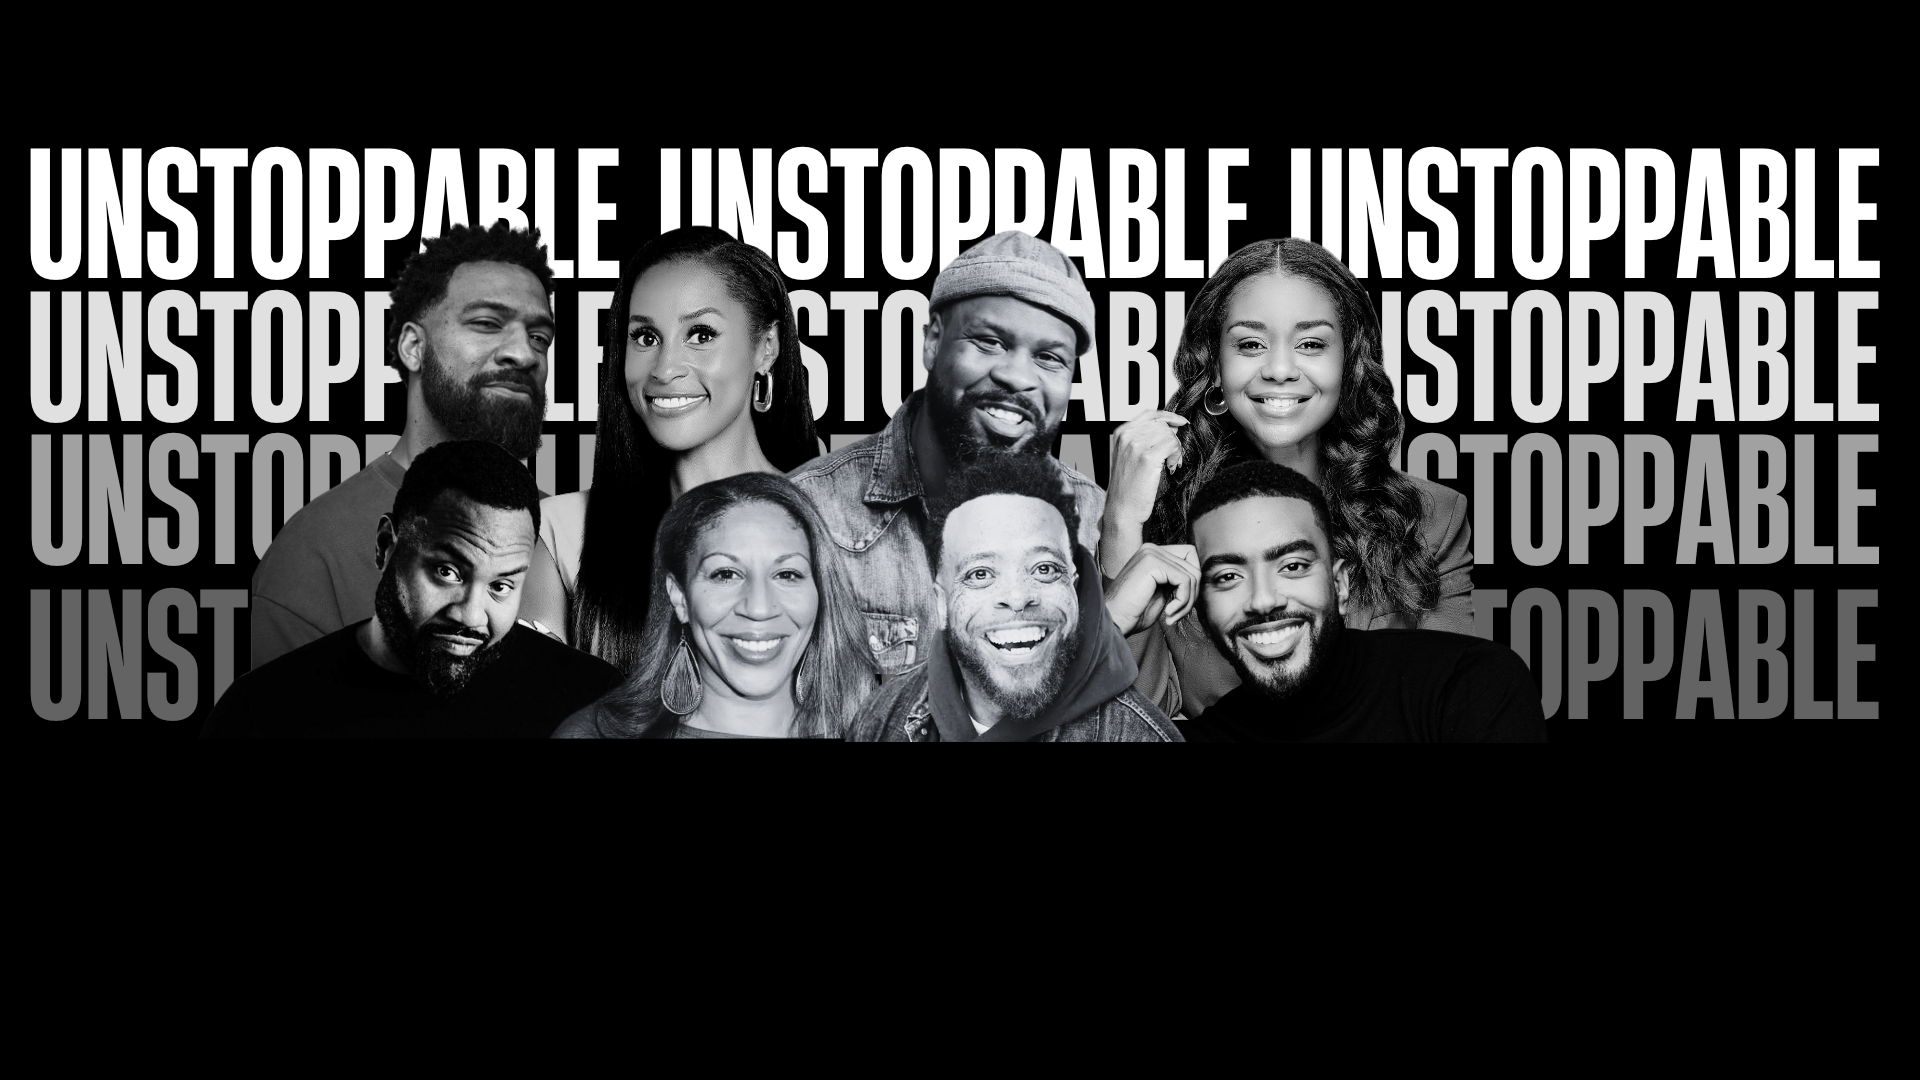
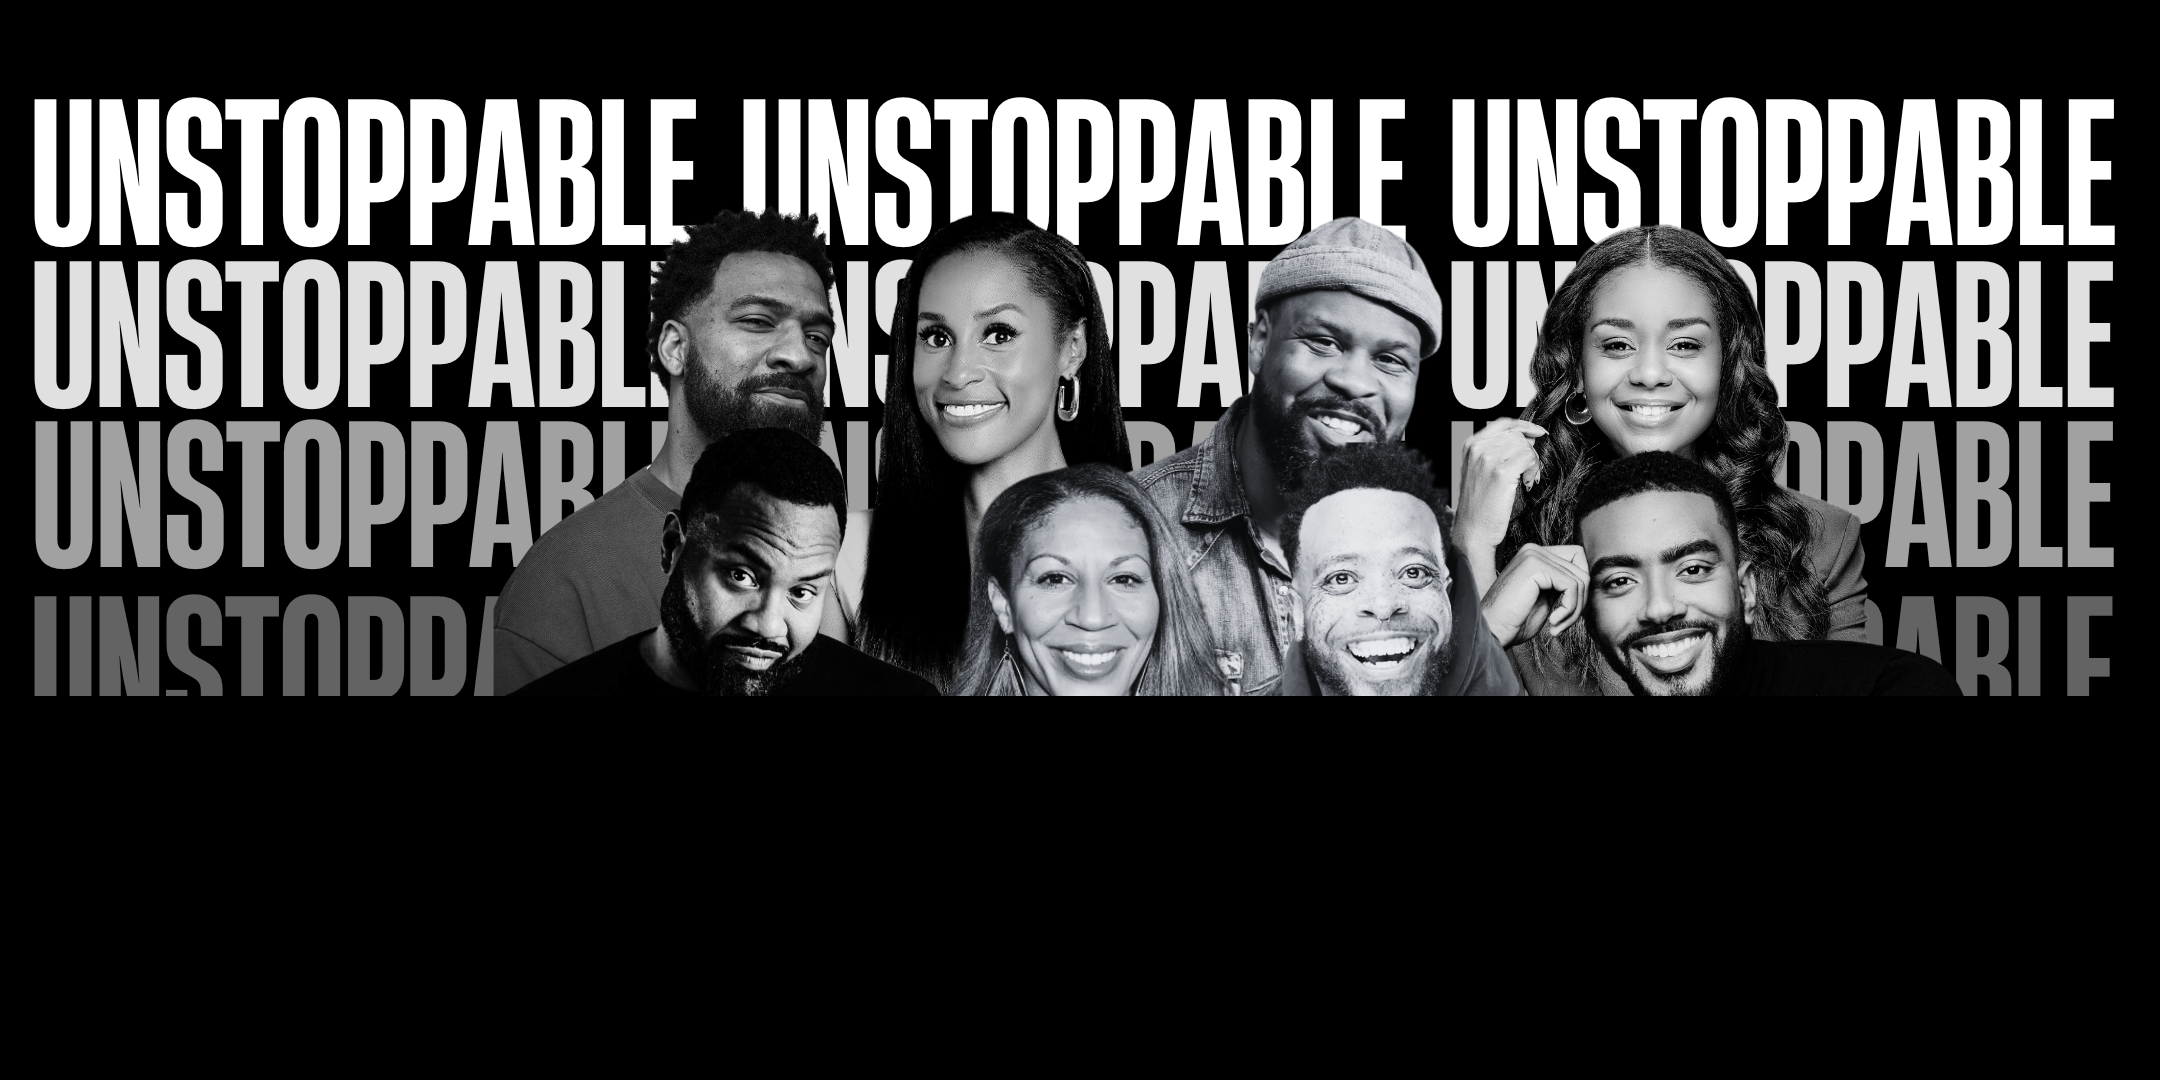
feat: replace hero photo with OCT-7 lineup image, fix picture element height, center-top position

diff --git a/index.html b/index.html
@@ -371,7 +371,8 @@ nav::before{content:'';position:absolute;inset:0;background:linear-gradient(to b
 /* ── HERO ── */
 .hero{position:relative;height:100vh;height:100svh;min-height:700px;display:flex;align-items:flex-end;overflow:hidden}
 .hero-photo{position:absolute;inset:0;z-index:0}
-.hero-photo img{width:100%;height:100%;object-fit:cover;object-position:center 18%}
+.hero-photo picture{display:block;width:100%;height:100%}
+.hero-photo img{width:100%;height:100%;object-fit:cover;object-position:center top}
 .hero-overlay{position:absolute;inset:0;z-index:1;background:linear-gradient(to top,rgba(0,0,0,.95) 0%,rgba(0,0,0,.78) 32%,rgba(0,0,0,.50) 62%,rgba(0,0,0,.30) 100%)}
 .hero-content{position:relative;z-index:3;width:100%;padding:0 80px 80px;display:flex;flex-direction:column;align-items:flex-start}
 .hero-eyebrow{font-family:'Barlow Condensed',sans-serif;font-size:16px;font-weight:700;letter-spacing:.25em;color:var(--orange);text-transform:uppercase;margin-bottom:8px;animation:fadeUp .8s ease .1s both;text-shadow:0 2px 12px rgba(0,0,0,.7)}
@@ -379,7 +380,7 @@ nav::before{content:'';position:absolute;inset:0;background:linear-gradient(to b
 .hero-title .tb{color:var(--blue)}
 .hero-sub{margin-top:16px;font-family:var(--body-font);font-size:clamp(18px,1.6vw,22px);line-height:1.6;color:rgba(255,255,255,.9);max-width:560px;animation:fadeUp .8s ease .3s both;text-shadow:0 1px 12px rgba(0,0,0,.6)}
 @media(max-width:900px){.hero{align-items:flex-end}.hero-content{padding:0 48px 56px}}
-@media(max-width:767px){.hero{align-items:center;height:100vh;height:100svh;min-height:560px}.hero-photo img{object-position:center top}.hero-overlay{background:rgba(0,0,0,.28)}.hero-content{padding:24px 24px 28px;margin:0 20px;width:calc(100% - 40px);background:rgba(0,0,0,.55);border-radius:16px}.hero-eyebrow{font-size:11px;letter-spacing:.22em;margin-bottom:10px;line-height:1.4}.hero-title{font-size:clamp(40px,12vw,66px);line-height:.88}.hero-sub{font-size:15px;margin-top:12px;max-width:100%}.hero-actions{margin-top:18px;flex-direction:column;align-items:stretch;gap:10px;width:100%}.hero-actions .btn,.hero-actions a{width:100%;text-align:center}}
+@media(max-width:767px){.hero{align-items:center;height:100vh;height:100svh;min-height:560px}.hero-overlay{background:rgba(0,0,0,.28)}.hero-content{padding:24px 24px 28px;margin:0 20px;width:calc(100% - 40px);background:rgba(0,0,0,.55);border-radius:16px}.hero-eyebrow{font-size:11px;letter-spacing:.22em;margin-bottom:10px;line-height:1.4}.hero-title{font-size:clamp(40px,12vw,66px);line-height:.88}.hero-sub{font-size:15px;margin-top:12px;max-width:100%}.hero-actions{margin-top:18px;flex-direction:column;align-items:stretch;gap:10px;width:100%}.hero-actions .btn,.hero-actions a{width:100%;text-align:center}}
 @media(max-width:380px){.hero-title{font-size:40px}.hero-eyebrow{font-size:10px}}
 .hero-badge{display:inline-flex;align-items:center;gap:10px;border:1px solid rgba(255,255,255,.18);border-radius:100px;padding:8px 16px 8px 8px;margin-bottom:14px;animation:fadeUp .8s ease both}
 .badge-dot{width:22px;height:22px;border-radius:50%;background:linear-gradient(135deg,var(--blue),var(--orange));flex-shrink:0}